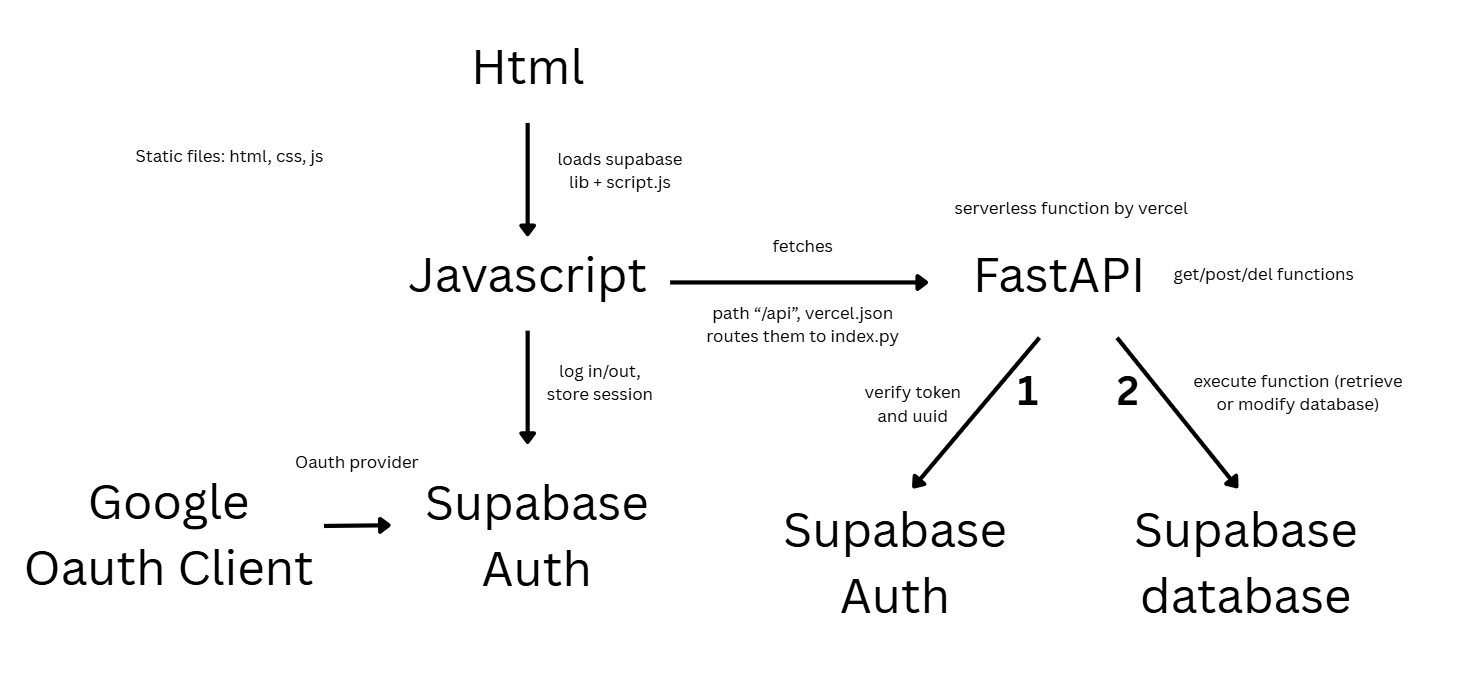
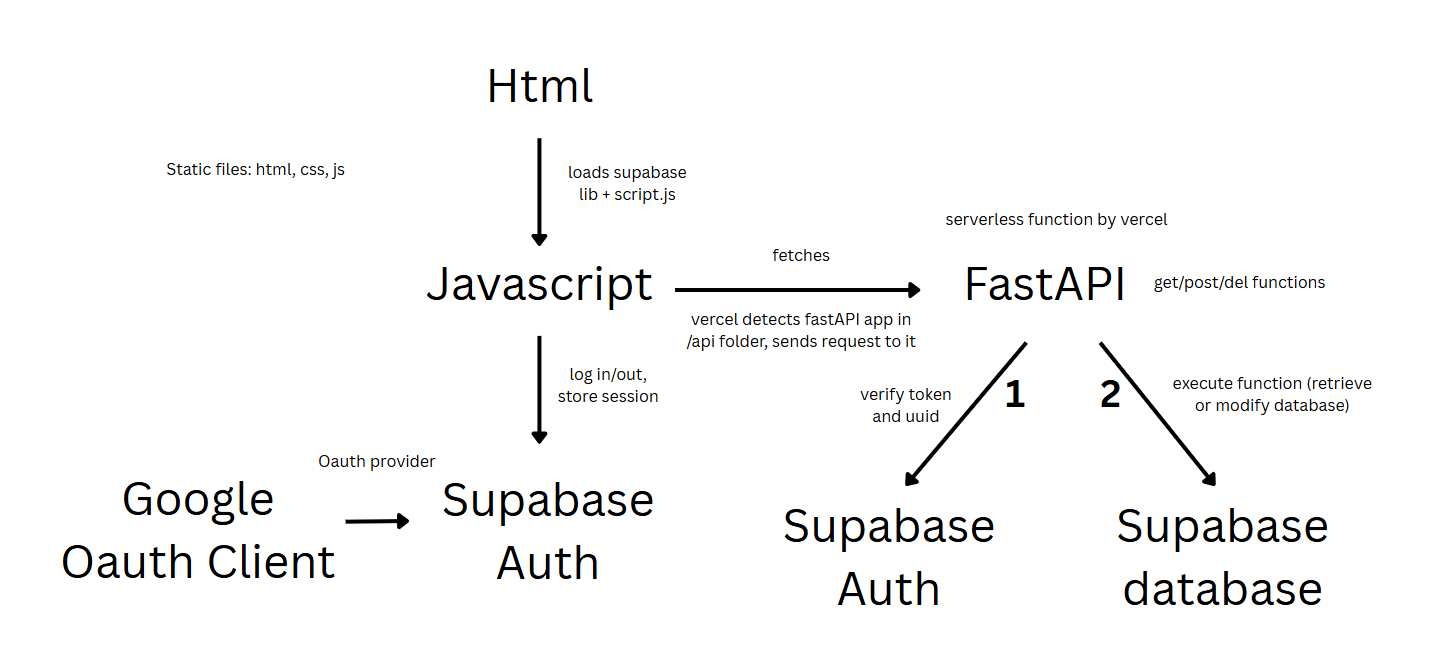
vercel json obsolete

diff --git a/api/index.py b/api/index.py
@@ -1,7 +1,7 @@
 # file purpose:
 # - connect to supabase database via python fastAPI
 # - fastAPI enables http requests (get/post/del) to database
-# - serverless function hosted by vercel that responds to fetches (vercel.json routes to index.py)
+# - serverless function hosted by vercel that responds to fetches (vercel detects fastapi app and routes /api/* to it)
 # - RESTful API
 
 from fastapi import FastAPI, Header
@@ -16,7 +16,7 @@ supabase = create_client(
 )
 
 # js fetch     → sends HTTP request (GET/POST/DELETE) to fastapi app via Vercel server
-# Vercel       → reads vercel.json, picks the file (index.py), invokes its "app" callable
+# Vercel       → detects the fastapi app and hands it the request
 # fastapi app  → matches method + path to the right function below
 # function     → retrieves/modifies database data via HTTP request
 # return       → fastapi serializes the result to JSON → back to js fetch
@@ -29,7 +29,7 @@ app = FastAPI()
 # ------------------------------------------------------ GET/POST/DEL FUNCTIONS
 
 # call Supabase API to return accounts data table
-@app.get("/api/accounts")   # "/api" required by vercel.json rewrite, "/accounts" personally named
+@app.get("/api/accounts")   # path js fetches; personally named
 def get_accounts(authorization: str = Header(...)):    # parameter meaning: store authorization header from fetch, if DNE then request rejected
     token = authorization.split(" ")[1]
 
